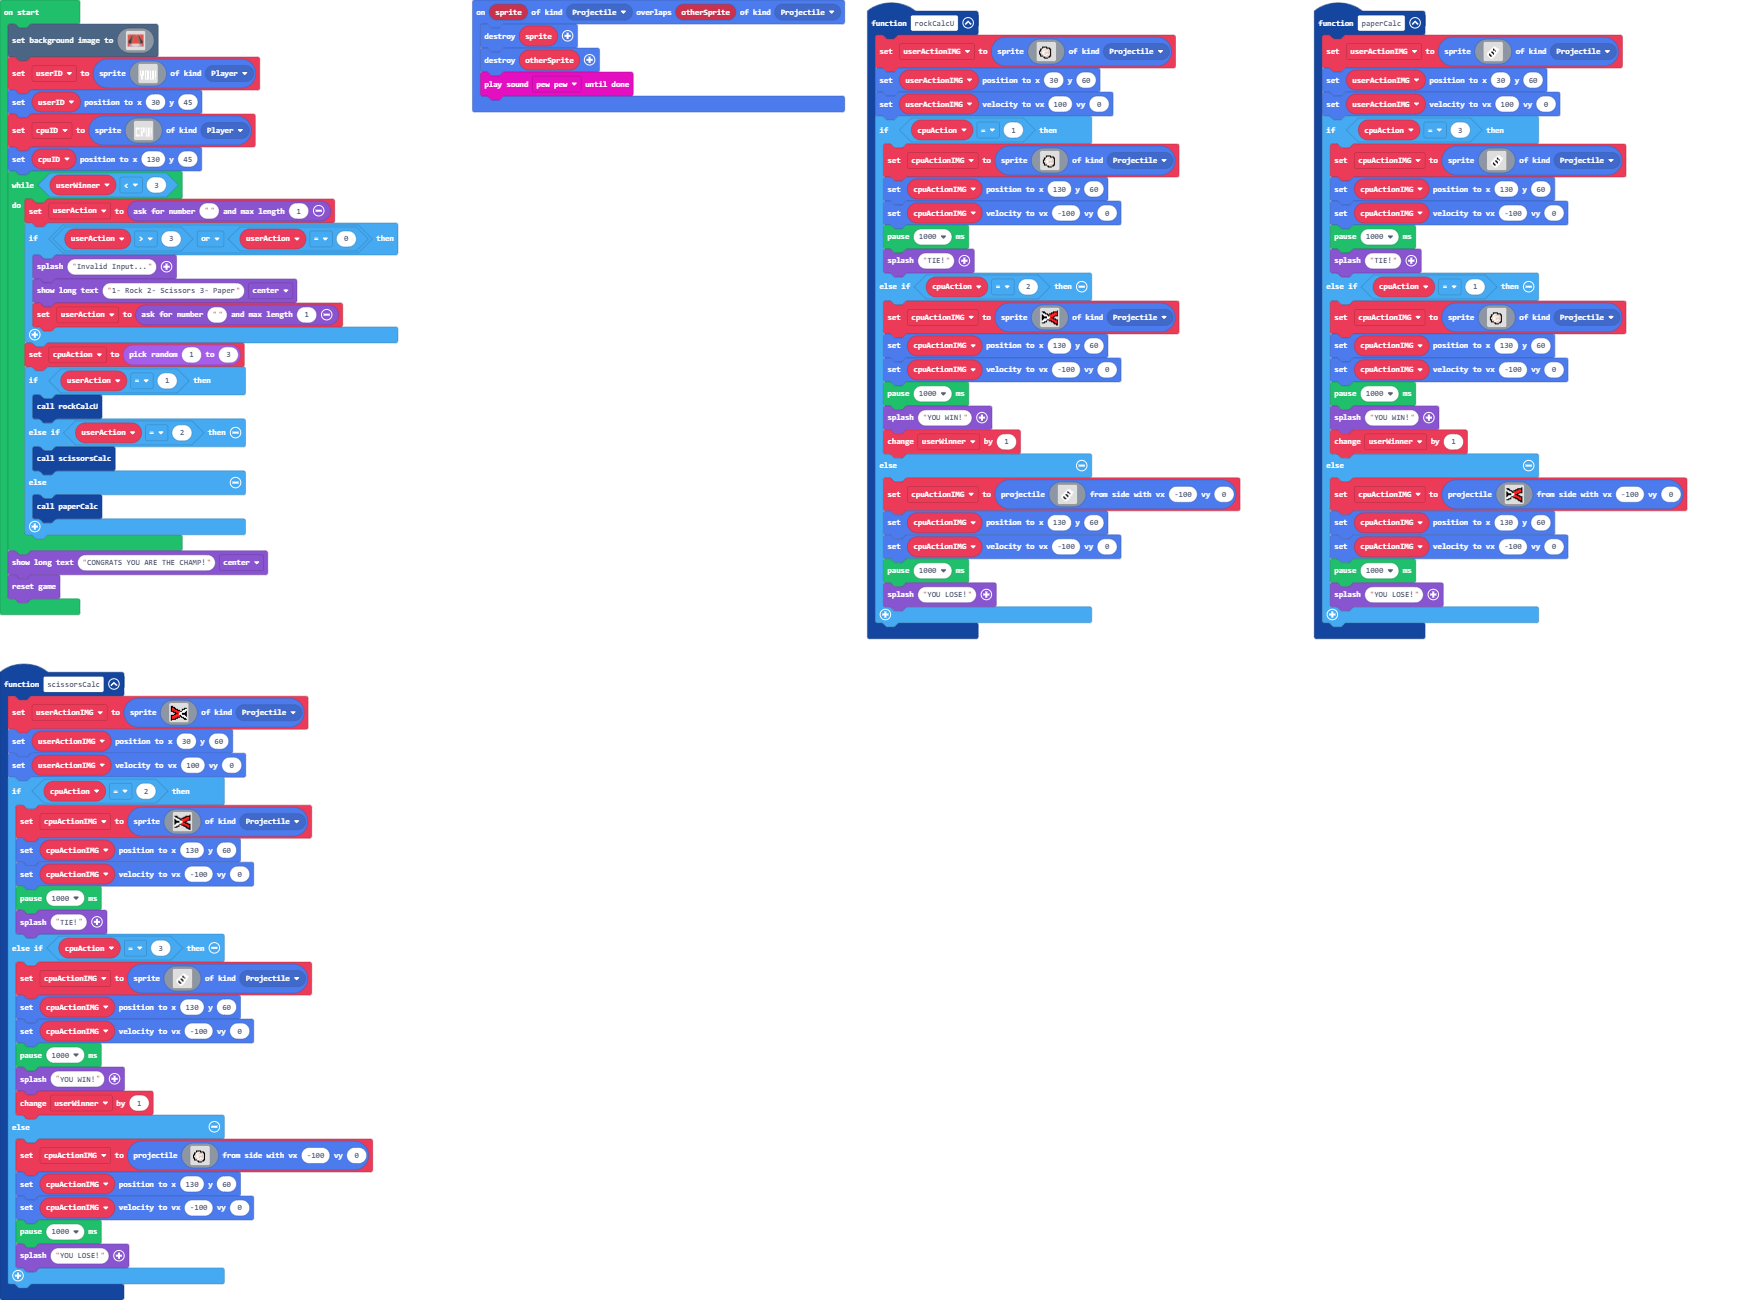
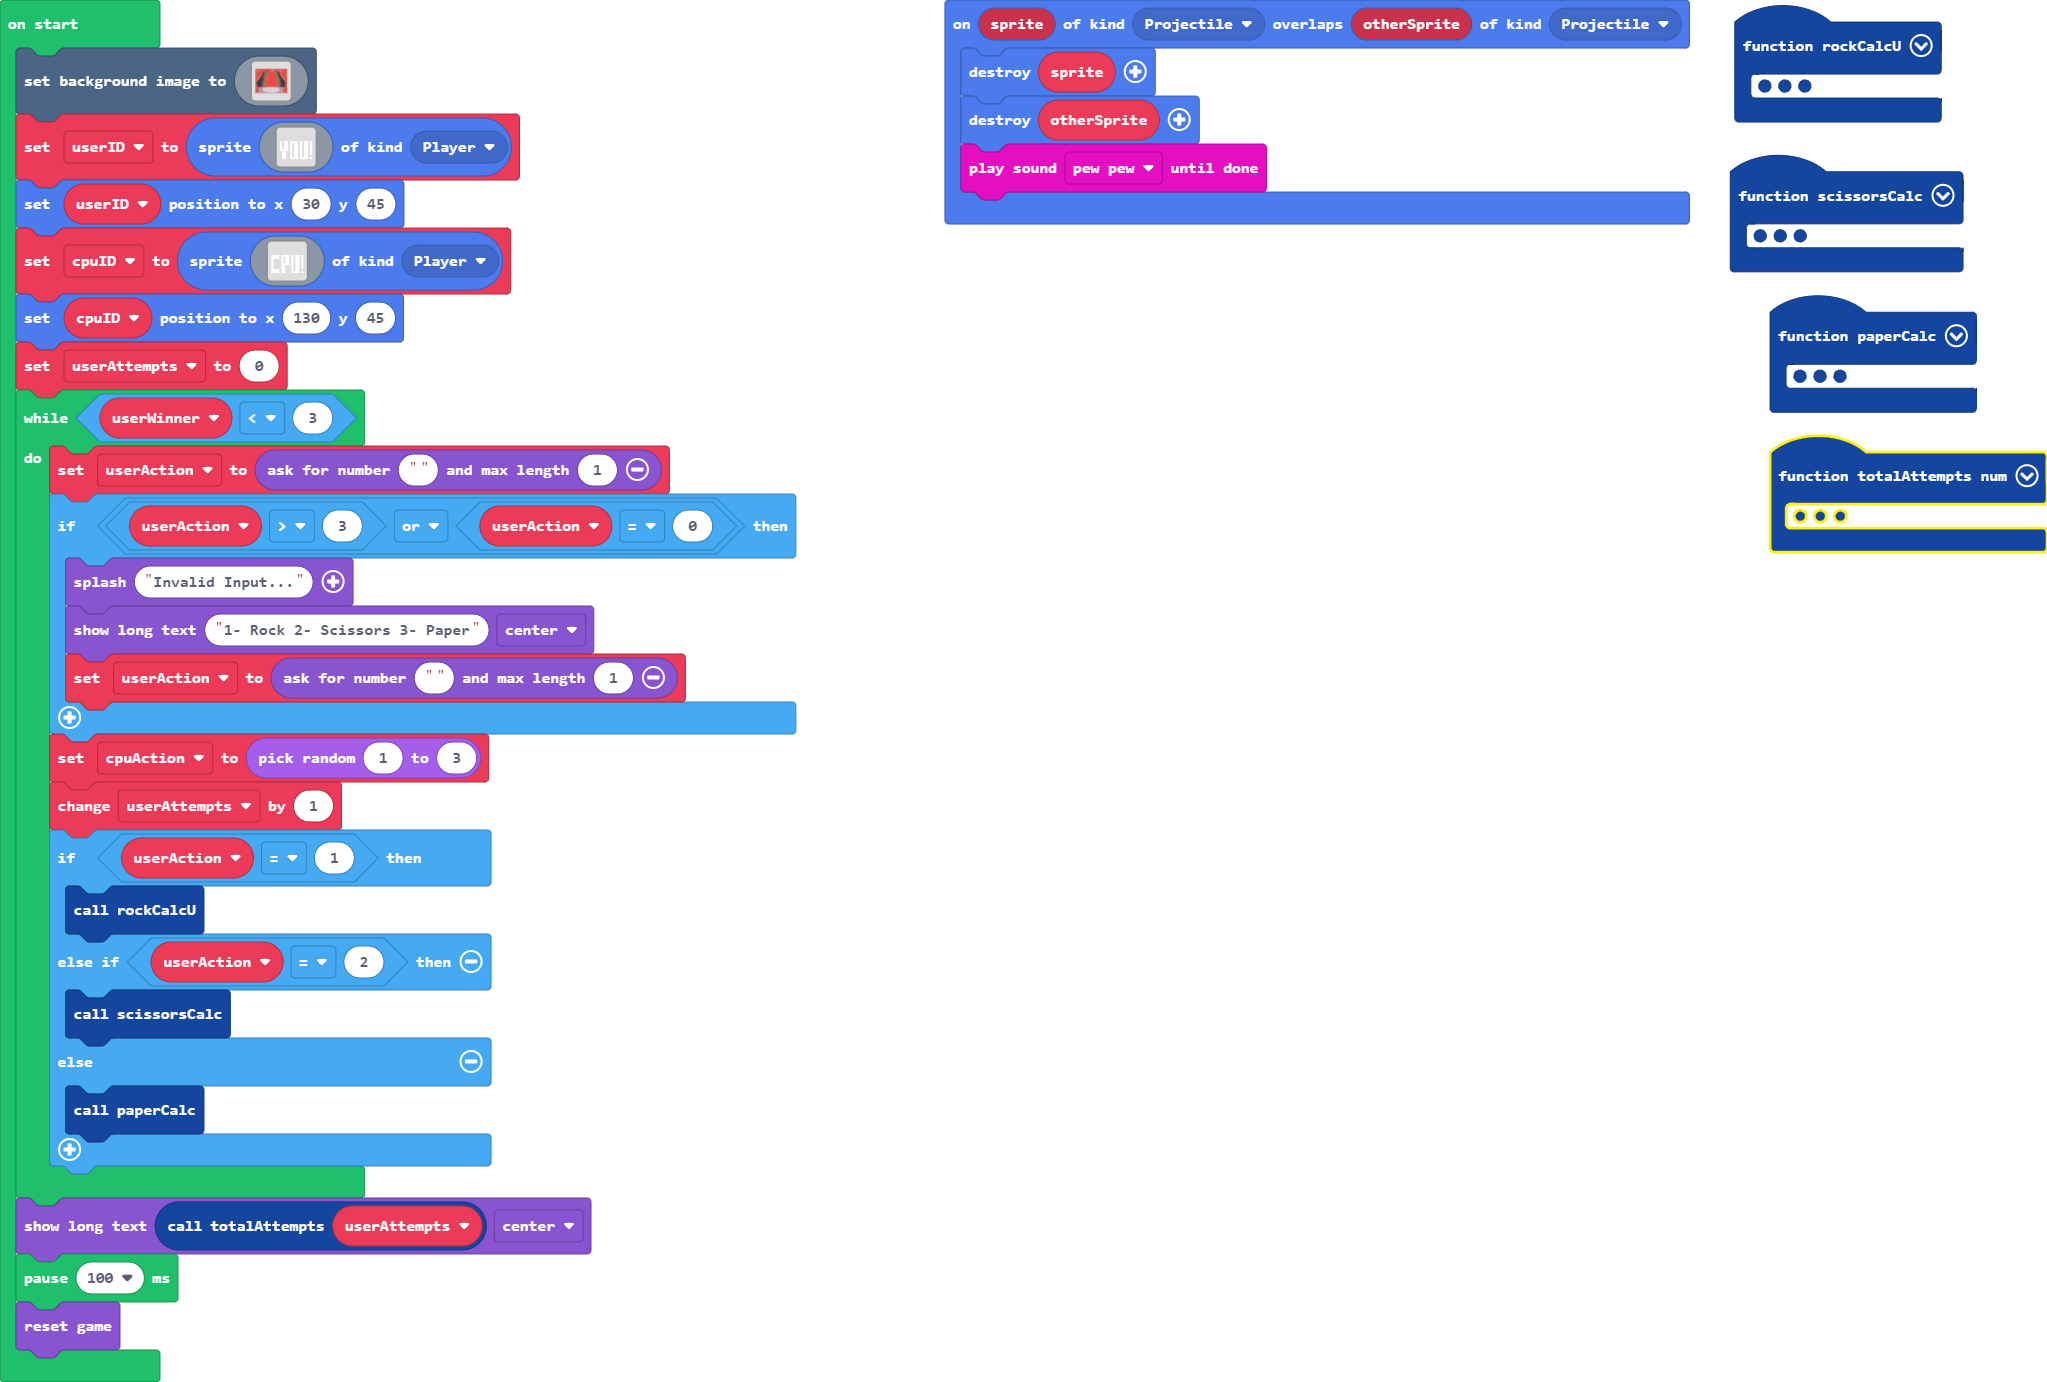
Update main.blocks, main.ts

diff --git a/main.ts b/main.ts
@@ -78,6 +78,9 @@ sprites.onOverlap(SpriteKind.Projectile, SpriteKind.Projectile, function (sprite
     otherSprite.destroy()
     music.pewPew.playUntilDone()
 })
+function totalAttempts (num: number) {
+    return "YOU ARE THE CHAMP!         " + "It took you " + num + " attempts!"
+}
 let cpuActionIMG: Sprite = null
 let userActionIMG: Sprite = null
 let cpuAction = 0
@@ -88,6 +91,7 @@ let userID = sprites.create(assets.image`you`, SpriteKind.Player)
 userID.setPosition(30, 45)
 let cpuID = sprites.create(assets.image`cpu`, SpriteKind.Player)
 cpuID.setPosition(130, 45)
+let userAttempts = 0
 while (userWinner < 3) {
     userAction = game.askForNumber("", 1)
     if (userAction > 3 || userAction == 0) {
@@ -96,6 +100,7 @@ while (userWinner < 3) {
         userAction = game.askForNumber("", 1)
     }
     cpuAction = randint(1, 3)
+    userAttempts += 1
     if (userAction == 1) {
         rockCalcU()
     } else if (userAction == 2) {
@@ -104,5 +109,6 @@ while (userWinner < 3) {
         paperCalc()
     }
 }
-game.showLongText("CONGRATS YOU ARE THE CHAMP!", DialogLayout.Center)
+game.showLongText(totalAttempts(userAttempts), DialogLayout.Center)
+pause(100)
 game.reset()
